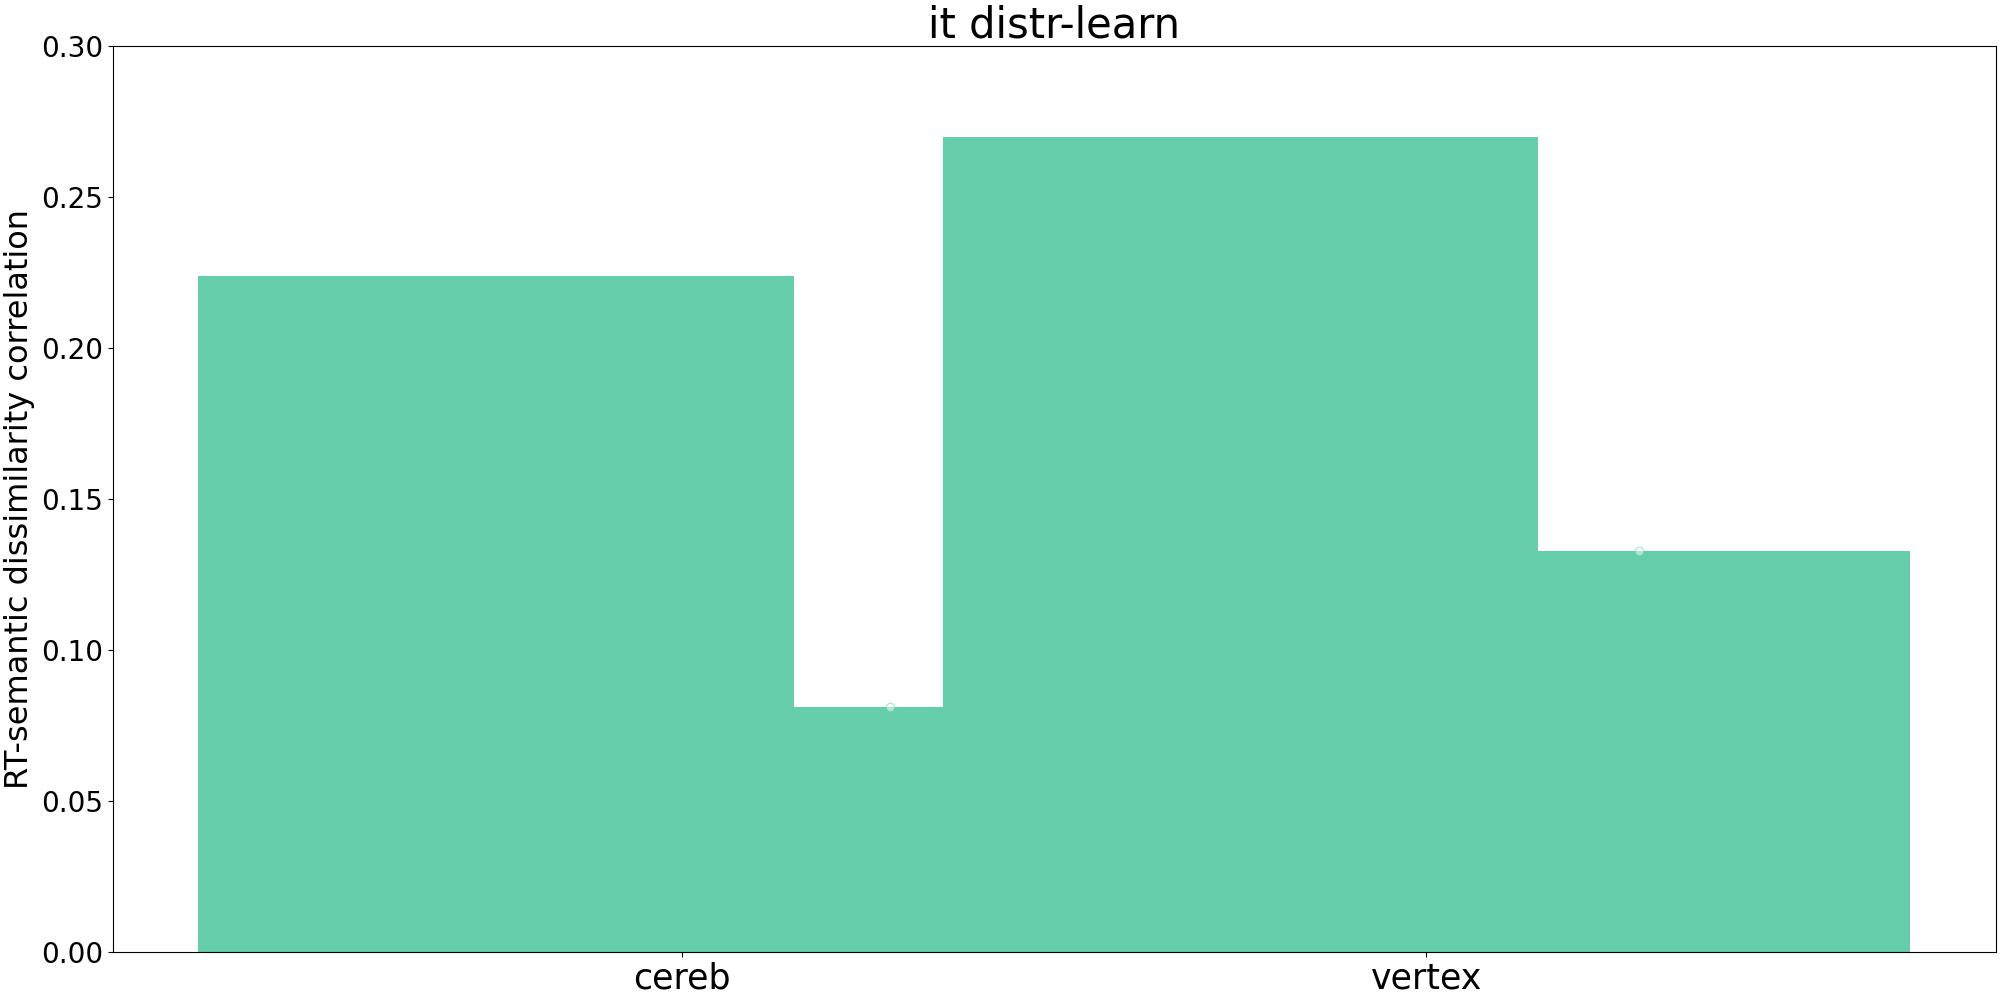
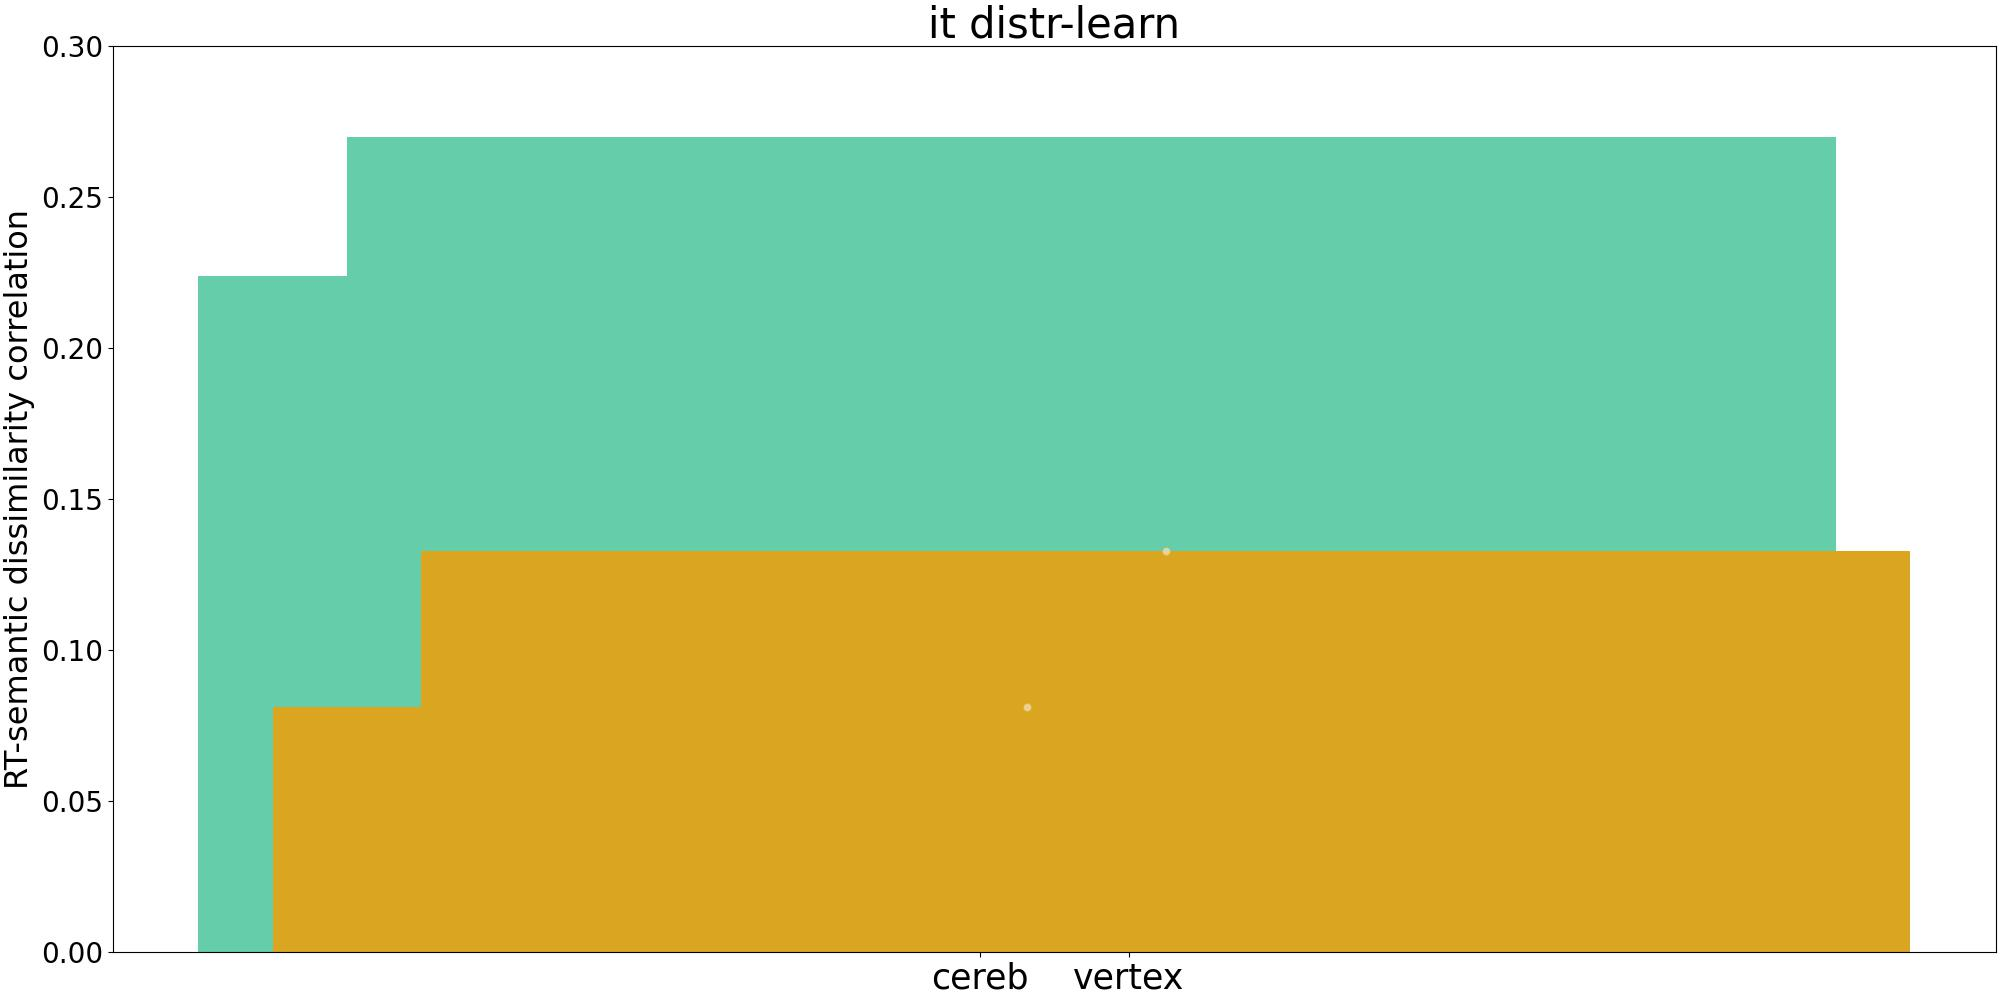
p

diff --git a/word_similarity_relatedness/plot_tms_comparisons.py b/word_similarity_relatedness/plot_tms_comparisons.py
@@ -89,6 +89,7 @@ for l, l_data in results.items():
                [x-0.25 for x in range(len(xs))],
                [numpy.average(y) for y in ys],
                color='mediumaquamarine',
+               width=10,
                )
         ### results for other model
         other_model = lang_best[l][1]
@@ -98,12 +99,13 @@ for l, l_data in results.items():
         ax.bar(
                [x+0.25 for x in range(len(xs))],
                [numpy.average(y) for y in ys],
-               color='mediumaquamarine',
+               color='goldenrod',
+               width=10,
                )
         ax.scatter(
                [x+0.25+(random.randint(-100, 100)*0.001) for x in range(len(xs))],
                [numpy.average(y) for y in ys],
-               edgecolor='mediumaquamarine',
+               edgecolor='goldenrod',
                color='white',
                alpha=0.5,
                zorder=3.,
